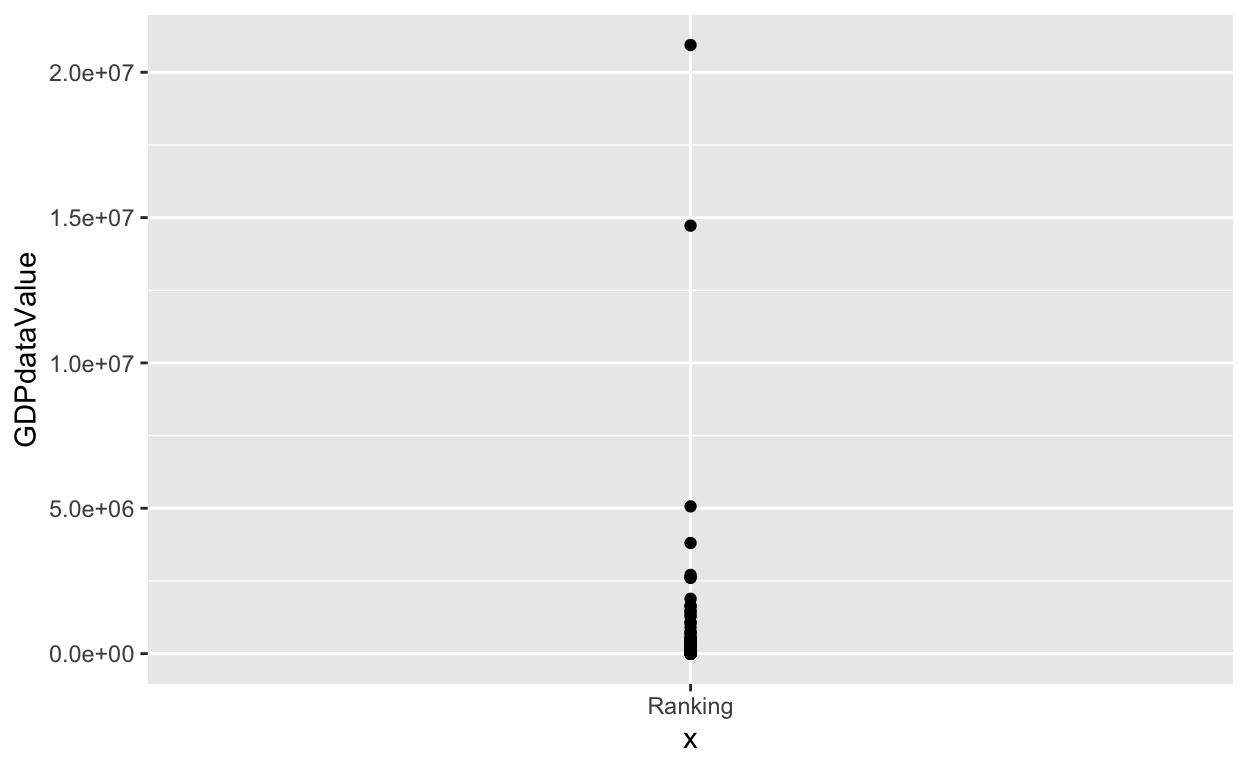
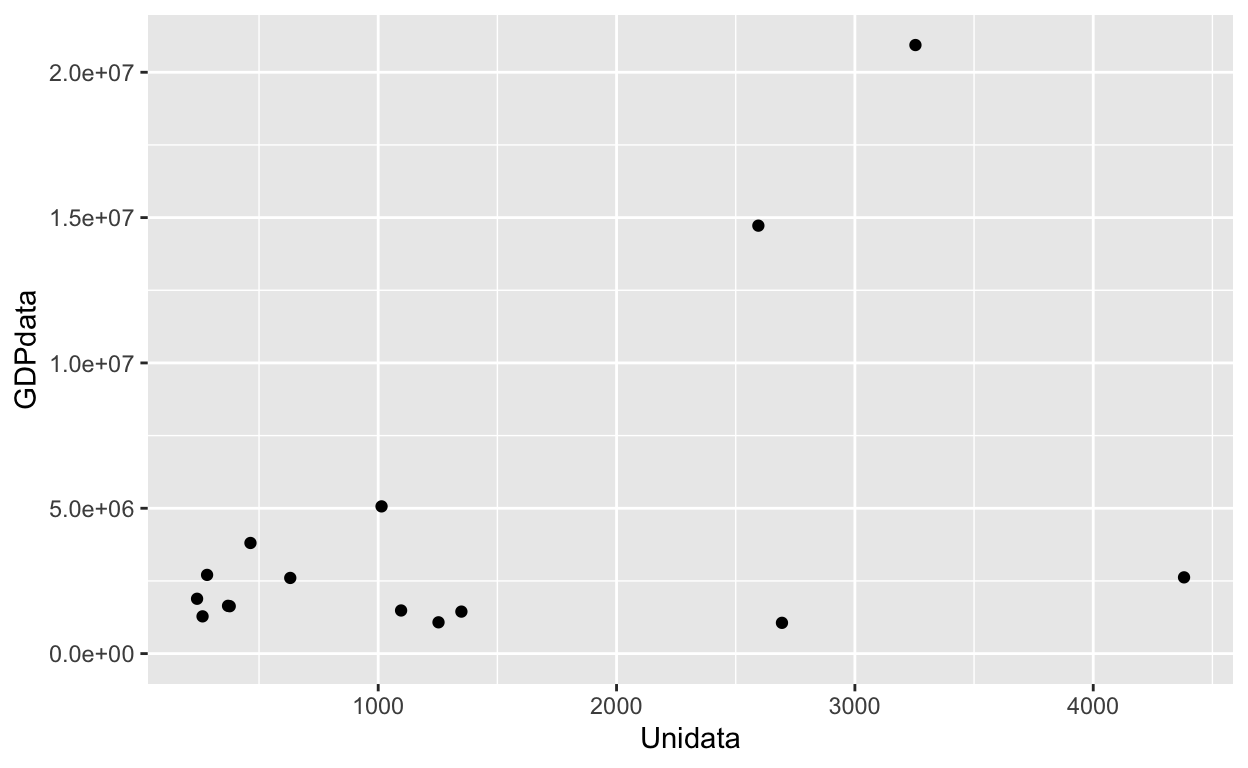
Alex's updated dataset for 7.30.21

diff --git a/_posts/2021-07-27-alexander-genovese-hw2-72721/alexander-genovese-hw2-72721.html b/_posts/2021-07-27-alexander-genovese-hw2-72721/alexander-genovese-hw2-72721.html
@@ -86,32 +86,32 @@ code span.wa { color: #5e5e5e; font-style: italic; } /* Warning */
 </style>
 
   <!--radix_placeholder_meta_tags-->
-  <title>Alexander Genovese HW2 7.27.21</title>
+  <title>Alexander Genovese HW2 7.30.21</title>
 
-  <meta property="description" itemprop="description" content="Alex Genovese&#39;s HW2 Revision"/>
+  <meta property="description" itemprop="description" content="Alex Genovese&#39;s HW2 Revision 7.30.21"/>
 
 
   <!--  https://schema.org/Article -->
-  <meta property="article:published" itemprop="datePublished" content="2021-07-27"/>
-  <meta property="article:created" itemprop="dateCreated" content="2021-07-27"/>
+  <meta property="article:published" itemprop="datePublished" content="2021-07-30"/>
+  <meta property="article:created" itemprop="dateCreated" content="2021-07-30"/>
   <meta name="article:author" content="Alex Genovese"/>
 
   <!--  https://developers.facebook.com/docs/sharing/webmasters#markup -->
-  <meta property="og:title" content="Alexander Genovese HW2 7.27.21"/>
+  <meta property="og:title" content="Alexander Genovese HW2 7.30.21"/>
   <meta property="og:type" content="article"/>
-  <meta property="og:description" content="Alex Genovese&#39;s HW2 Revision"/>
+  <meta property="og:description" content="Alex Genovese&#39;s HW2 Revision 7.30.21"/>
   <meta property="og:locale" content="en_US"/>
 
   <!--  https://dev.twitter.com/cards/types/summary -->
   <meta property="twitter:card" content="summary"/>
-  <meta property="twitter:title" content="Alexander Genovese HW2 7.27.21"/>
-  <meta property="twitter:description" content="Alex Genovese&#39;s HW2 Revision"/>
+  <meta property="twitter:title" content="Alexander Genovese HW2 7.30.21"/>
+  <meta property="twitter:description" content="Alex Genovese&#39;s HW2 Revision 7.30.21"/>
 
   <!--/radix_placeholder_meta_tags-->
   <!--radix_placeholder_rmarkdown_metadata-->
 
   <script type="text/json" id="radix-rmarkdown-metadata">
-  {"type":"list","attributes":{"names":{"type":"character","attributes":{},"value":["title","description","author","date","output","draft"]}},"value":[{"type":"character","attributes":{},"value":["Alexander Genovese HW2 7.27.21"]},{"type":"character","attributes":{},"value":["Alex Genovese's HW2 Revision\n"]},{"type":"list","attributes":{},"value":[{"type":"list","attributes":{"names":{"type":"character","attributes":{},"value":["name"]}},"value":[{"type":"character","attributes":{},"value":["Alex Genovese"]}]}]},{"type":"character","attributes":{},"value":["07-27-2021"]},{"type":"list","attributes":{"names":{"type":"character","attributes":{},"value":["distill::distill_article"]}},"value":[{"type":"list","attributes":{"names":{"type":"character","attributes":{},"value":["self_contained"]}},"value":[{"type":"logical","attributes":{},"value":[false]}]}]},{"type":"logical","attributes":{},"value":[true]}]}
+  {"type":"list","attributes":{"names":{"type":"character","attributes":{},"value":["title","description","author","date","output","draft"]}},"value":[{"type":"character","attributes":{},"value":["Alexander Genovese HW2 7.30.21"]},{"type":"character","attributes":{},"value":["Alex Genovese's HW2 Revision 7.30.21\n"]},{"type":"list","attributes":{},"value":[{"type":"list","attributes":{"names":{"type":"character","attributes":{},"value":["name"]}},"value":[{"type":"character","attributes":{},"value":["Alex Genovese"]}]}]},{"type":"character","attributes":{},"value":["07-30-2021"]},{"type":"list","attributes":{"names":{"type":"character","attributes":{},"value":["distill::distill_article"]}},"value":[{"type":"list","attributes":{"names":{"type":"character","attributes":{},"value":["self_contained"]}},"value":[{"type":"logical","attributes":{},"value":[false]}]}]},{"type":"logical","attributes":{},"value":[true]}]}
   </script>
   <!--/radix_placeholder_rmarkdown_metadata-->
   
@@ -1455,7 +1455,7 @@ code span.wa { color: #5e5e5e; font-style: italic; } /* Warning */
 <!--radix_placeholder_front_matter-->
 
 <script id="distill-front-matter" type="text/json">
-{"title":"Alexander Genovese HW2 7.27.21","description":"Alex Genovese's HW2 Revision","authors":[{"author":"Alex Genovese","authorURL":"#","affiliation":"&nbsp;","affiliationURL":"#","orcidID":""}],"publishedDate":"2021-07-27T00:00:00.000+00:00","citationText":"Genovese, 2021"}
+{"title":"Alexander Genovese HW2 7.30.21","description":"Alex Genovese's HW2 Revision 7.30.21","authors":[{"author":"Alex Genovese","authorURL":"#","affiliation":"&nbsp;","affiliationURL":"#","orcidID":""}],"publishedDate":"2021-07-30T00:00:00.000+00:00","citationText":"Genovese, 2021"}
 </script>
 
 <!--/radix_placeholder_front_matter-->
@@ -1465,16 +1465,16 @@ code span.wa { color: #5e5e5e; font-style: italic; } /* Warning */
 <!--/radix_placeholder_site_before_body-->
 
 <div class="d-title">
-<h1>Alexander Genovese HW2 7.27.21</h1>
+<h1>Alexander Genovese HW2 7.30.21</h1>
 <!--radix_placeholder_categories-->
 <!--/radix_placeholder_categories-->
-<p><p>Alex Genovese’s HW2 Revision</p></p>
+<p><p>Alex Genovese’s HW2 Revision 7.30.21</p></p>
 </div>
 
 <div class="d-byline">
   Alex Genovese  
   
-<br/>07-27-2021
+<br/>07-30-2021
 </div>
 
 <div class="d-article">
@@ -1483,57 +1483,39 @@ code span.wa { color: #5e5e5e; font-style: italic; } /* Warning */
 <strong>Reading in the data and cleaning it</strong>
 <div class="layout-chunk" data-layout="l-body">
 <div class="sourceCode">
-<pre class="sourceCode r"><code class="sourceCode r"><span class='va'>GDPdata</span> <span class='op'>&lt;-</span> <span class='fu'><a href='https://readxl.tidyverse.org/reference/read_excel.html'>read_excel</a></span><span class='op'>(</span><span class='st'>"../../_data/WorldBankGDPData.xlsx"</span><span class='op'>)</span>
-<span class='va'>GDPdata</span><span class='op'>[</span><span class='va'>GDPdata</span> <span class='op'>==</span> <span class='fl'>0</span><span class='op'>]</span> <span class='op'>&lt;-</span> <span class='cn'>NA</span>
-<span class='va'>GDPdataValue</span> <span class='op'>&lt;-</span> <span class='va'>GDPdata</span><span class='op'>$</span><span class='va'>`Millions of US Dollars`</span>
+<pre class="sourceCode r"><code class="sourceCode r"><span class='va'>GDPvsUnidata</span> <span class='op'>&lt;-</span> <span class='fu'><a href='https://readxl.tidyverse.org/reference/read_excel.html'>read_excel</a></span><span class='op'>(</span><span class='st'>"../../_data/WorldBankGDPData.xlsx"</span><span class='op'>)</span>
+<span class='va'>GDPvsUnidata</span><span class='op'>[</span><span class='va'>GDPvsUnidata</span> <span class='op'>==</span> <span class='fl'>0</span><span class='op'>]</span> <span class='op'>&lt;-</span> <span class='cn'>NA</span>
+<span class='va'>GDPdata</span> <span class='op'>&lt;-</span> <span class='va'>GDPvsUnidata</span><span class='op'>$</span><span class='va'>`Millions of US Dollars`</span>
+<span class='va'>Unidata</span> <span class='op'>&lt;-</span> <span class='va'>GDPvsUnidata</span><span class='op'>$</span><span class='va'>`Number of Universities Worldwide in 2020 by Country`</span>
 </code></pre>
 </div>
 </div>
-<p>I then read in the data into GDPdata. In order to have correct data into my analysis, I turned the 0 values into NA because it meant that the World Bank did not have data to support the GDP amount. I also created a vector for the GDP of each country based off Millions of US Dollars.</p>
+<p>I then read in the data into GDPvsUnidata. In order to have correct data into my analysis, I turned the 0 values into NA because it meant that the World Bank did not have data to support the GDP amount. I also created a vector for the GDP of each country based off Millions of US Dollars and another vector for the amount of Universities in each country.</p>
 <strong>Looking at the data to see basic statistics</strong>
 <div class="layout-chunk" data-layout="l-body">
 <div class="sourceCode">
-<pre class="sourceCode r"><code class="sourceCode r"><span class='va'>GDPdataMean</span> <span class='op'>&lt;-</span> <span class='fu'><a href='https://rdrr.io/r/base/mean.html'>mean</a></span><span class='op'>(</span><span class='va'>GDPdataValue</span>, na.rm <span class='op'>=</span> <span class='cn'>TRUE</span><span class='op'>)</span>
-<span class='fu'><a href='https://rdrr.io/r/base/print.html'>print</a></span><span class='op'>(</span><span class='va'>GDPdataMean</span><span class='op'>)</span>
+<pre class="sourceCode r"><code class="sourceCode r"><span class='va'>GDPdataMean</span> <span class='op'>&lt;-</span> <span class='fu'><a href='https://rdrr.io/r/base/mean.html'>mean</a></span><span class='op'>(</span><span class='va'>GDPdata</span>, na.rm <span class='op'>=</span> <span class='cn'>TRUE</span><span class='op'>)</span>
+<span class='va'>GDPdataMedian</span> <span class='op'>&lt;-</span> <span class='fu'><a href='https://rdrr.io/r/stats/median.html'>median</a></span><span class='op'>(</span><span class='va'>GDPdata</span>, na.rm <span class='op'>=</span> <span class='cn'>TRUE</span><span class='op'>)</span>
+<span class='va'>GDPdataRange</span> <span class='op'>&lt;-</span> <span class='fu'><a href='https://rdrr.io/r/base/Extremes.html'>max</a></span><span class='op'>(</span><span class='va'>GDPdata</span>, na.rm <span class='op'>=</span> <span class='cn'>TRUE</span><span class='op'>)</span> <span class='op'>-</span> <span class='fu'><a href='https://rdrr.io/r/base/Extremes.html'>min</a></span><span class='op'>(</span><span class='va'>GDPdata</span>, na.rm <span class='op'>=</span> <span class='cn'>TRUE</span><span class='op'>)</span>
+<span class='va'>UnidataMean</span> <span class='op'>&lt;-</span> <span class='fu'><a href='https://rdrr.io/r/base/mean.html'>mean</a></span><span class='op'>(</span><span class='va'>Unidata</span>, na.rm <span class='op'>=</span> <span class='cn'>TRUE</span><span class='op'>)</span>
+<span class='va'>UnidataMedian</span> <span class='op'>&lt;-</span> <span class='fu'><a href='https://rdrr.io/r/stats/median.html'>median</a></span><span class='op'>(</span><span class='va'>Unidata</span>, na.rm <span class='op'>=</span> <span class='cn'>TRUE</span><span class='op'>)</span>
+<span class='va'>UnidataRange</span> <span class='op'>&lt;-</span> <span class='fu'><a href='https://rdrr.io/r/base/Extremes.html'>max</a></span><span class='op'>(</span><span class='va'>Unidata</span>, na.rm <span class='op'>=</span> <span class='cn'>TRUE</span><span class='op'>)</span> <span class='op'>-</span> <span class='fu'><a href='https://rdrr.io/r/base/Extremes.html'>min</a></span><span class='op'>(</span><span class='va'>GDPdata</span>, na.rm <span class='op'>=</span> <span class='cn'>TRUE</span><span class='op'>)</span>
 </code></pre>
 </div>
-<pre><code>[1] 405728.2</code></pre>
-<div class="sourceCode">
-<pre class="sourceCode r"><code class="sourceCode r"><span class='va'>GDPdataMedian</span> <span class='op'>&lt;-</span> <span class='fu'><a href='https://rdrr.io/r/stats/median.html'>median</a></span><span class='op'>(</span><span class='va'>GDPdataValue</span>, na.rm <span class='op'>=</span> <span class='cn'>TRUE</span><span class='op'>)</span>
-<span class='fu'><a href='https://rdrr.io/r/base/print.html'>print</a></span><span class='op'>(</span><span class='va'>GDPdataMedian</span><span class='op'>)</span>
-</code></pre>
 </div>
-<pre><code>[1] 25101.08</code></pre>
-<div class="sourceCode">
-<pre class="sourceCode r"><code class="sourceCode r"><span class='va'>GDPdataRange</span> <span class='op'>&lt;-</span> <span class='fu'><a href='https://rdrr.io/r/base/Extremes.html'>max</a></span><span class='op'>(</span><span class='va'>GDPdataValue</span>, na.rm <span class='op'>=</span> <span class='cn'>TRUE</span><span class='op'>)</span> <span class='op'>-</span> <span class='fu'><a href='https://rdrr.io/r/base/Extremes.html'>min</a></span><span class='op'>(</span><span class='va'>GDPdataValue</span>, na.rm <span class='op'>=</span> <span class='cn'>TRUE</span><span class='op'>)</span>
-<span class='fu'><a href='https://rdrr.io/r/base/print.html'>print</a></span><span class='op'>(</span><span class='va'>GDPdataRange</span><span class='op'>)</span>
-</code></pre>
-</div>
-<pre><code>[1] 20936551</code></pre>
-</div>
-<p>The data I want to analyze is the large disparity in GDP from each country based off of whether they were first world, second world, or third world countries. The mean was pretty slanted, so I went with the median as a good idea of what the average is. I also found the range to show just how big the disparity in GDP is from the lowest GDP country to the highest.</p>
+<p>The data I wanted to analyze is does the amount of Universities impact GDP? I found the basic statistics of both the GDP data and the amount of Universities in each country.</p>
 <strong>Graphing the Data</strong>
 <div class="layout-chunk" data-layout="l-body">
 <div class="sourceCode">
-<pre class="sourceCode r"><code class="sourceCode r"><span class='fu'><a href='https://rdrr.io/r/base/class.html'>class</a></span><span class='op'>(</span><span class='va'>GDPdata</span><span class='op'>$</span><span class='va'>Ranking</span><span class='op'>)</span>
-</code></pre>
-</div>
-<pre><code>[1] &quot;numeric&quot;</code></pre>
-<div class="sourceCode">
-<pre class="sourceCode r"><code class="sourceCode r"><span class='fu'><a href='https://rdrr.io/r/base/class.html'>class</a></span><span class='op'>(</span><span class='va'>GDPdataValue</span><span class='op'>)</span>
-</code></pre>
-</div>
-<pre><code>[1] &quot;numeric&quot;</code></pre>
-<div class="sourceCode">
-<pre class="sourceCode r"><code class="sourceCode r"><span class='fu'>ggplot</span><span class='op'>(</span><span class='va'>GDPdata</span>, <span class='fu'>aes</span><span class='op'>(</span>x <span class='op'>=</span> <span class='st'>'Ranking'</span>, y <span class='op'>=</span> <span class='va'>GDPdataValue</span><span class='op'>)</span><span class='op'>)</span> <span class='op'>+</span> <span class='fu'>geom_point</span><span class='op'>(</span><span class='op'>)</span>
+<pre class="sourceCode r"><code class="sourceCode r"><span class='fu'>ggplot</span><span class='op'>(</span><span class='va'>GDPvsUnidata</span>, <span class='fu'>aes</span><span class='op'>(</span>x <span class='op'>=</span> <span class='va'>Unidata</span>, y <span class='op'>=</span> <span class='va'>GDPdata</span><span class='op'>)</span><span class='op'>)</span> <span class='op'>+</span> <span class='fu'>geom_point</span><span class='op'>(</span><span class='op'>)</span>
 </code></pre>
 </div>
 <p><img src="alexander-genovese-hw2-72721_files/figure-html5/unnamed-chunk-4-1.png" width="624" /></p>
 </div>
-<p>I wanted to make sure that the data I was using was numerical to do a scatterplot. From there, I generated the scatterplot based off of ranking, with each number corresponding to the country (ie. 1 = US, 2 = China, 3 = Japan, etc.). With that graph, we can see just how slanted the data is towards the left (or lower GDP). I am planning on separating these countries into how they’re identified, first, second, or third world, by color and doing an analysis on how big the disparity is in 2021.</p>
+<p>I graphed the data in a scatterplot to see how the amount of Universities impacts the GDP of a country. The data looks fairly linear, with the GDP rising with the amount of Universities in the country. There are two outliers in terms of the amount of Universities and how it impacts GDP, so I need to make sure that there is a causal relationship.</p>
 <p>Distill is a publication format for scientific and technical writing, native to the web.</p>
 <p>Learn more about using Distill at <a href="https://rstudio.github.io/distill" class="uri">https://rstudio.github.io/distill</a>.</p>
-<div class="sourceCode" id="cb6"><pre class="sourceCode r distill-force-highlighting-css"><code class="sourceCode r"></code></pre></div>
+<div class="sourceCode" id="cb1"><pre class="sourceCode r distill-force-highlighting-css"><code class="sourceCode r"></code></pre></div>
 <!--radix_placeholder_article_footer-->
 <!--/radix_placeholder_article_footer-->
 </div>
